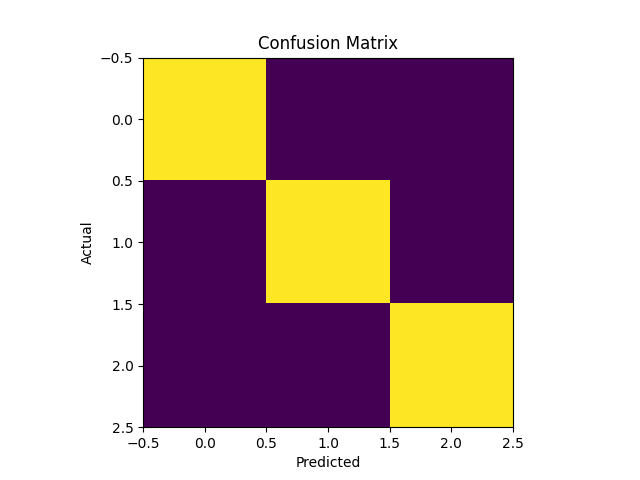
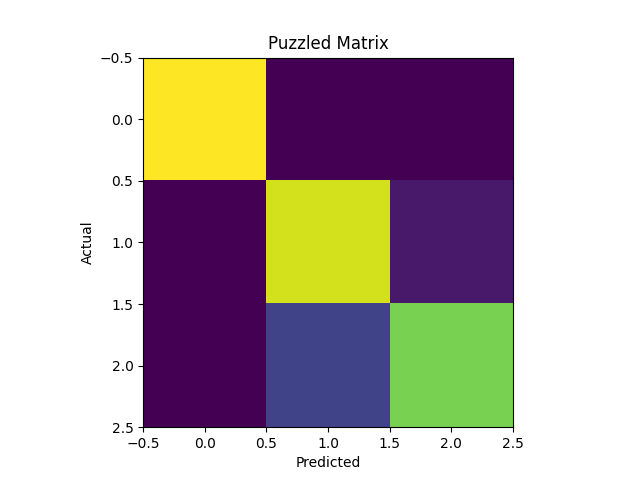
Submitting Week 6 Activity 1

Changed region(s): [[0.4062, 0.375, 0.8125, 0.9062], [0.4062, 0.0625, 0.625, 0.125]]

diff --git a/Data_Analytics/Week 6/Activity 1/iris/main.py b/Data_Analytics/Week 6/Activity 1/iris/main.py
@@ -47,7 +47,7 @@ y = df.iloc[:, -1]
 X_train, X_test, y_train, y_test = train_test_split(
     X,
     y,
-    test_size=0.2,
+    test_size=0.3,
     random_state=42,
     stratify=y
 )
@@ -69,7 +69,7 @@ cm = confusion_matrix(y_test, y_pred)
 print(cm)
 plt.imshow(cm)
 
-plt.title("Confusion Matrix")
+plt.title("Puzzled Matrix")
 
 plt.xlabel("Predicted")
 plt.ylabel("Actual")
